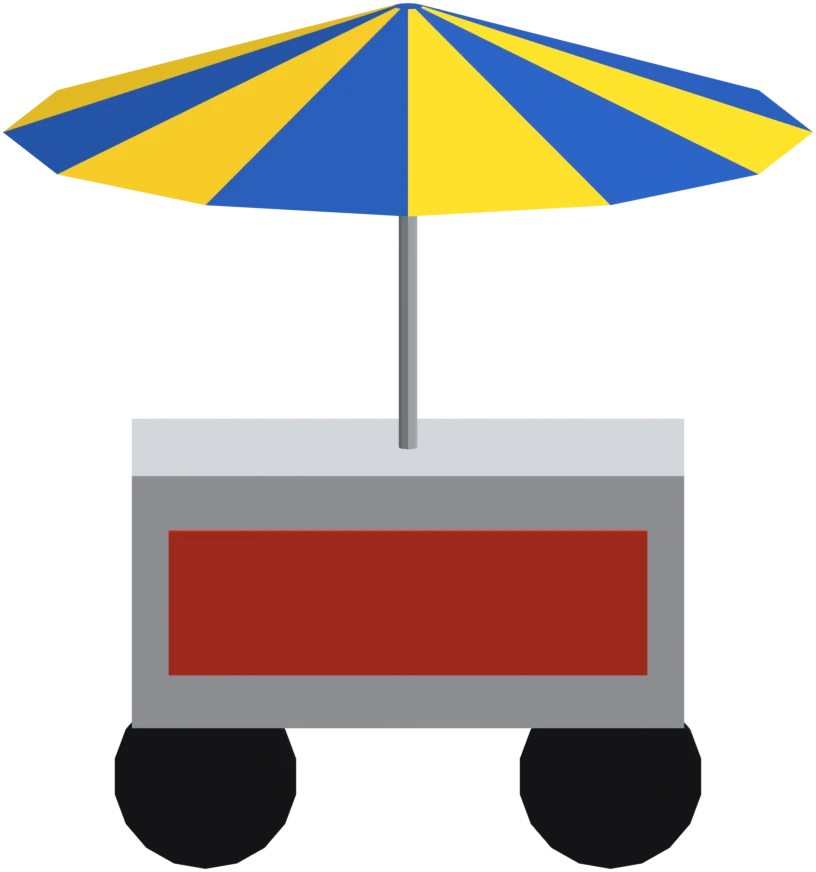
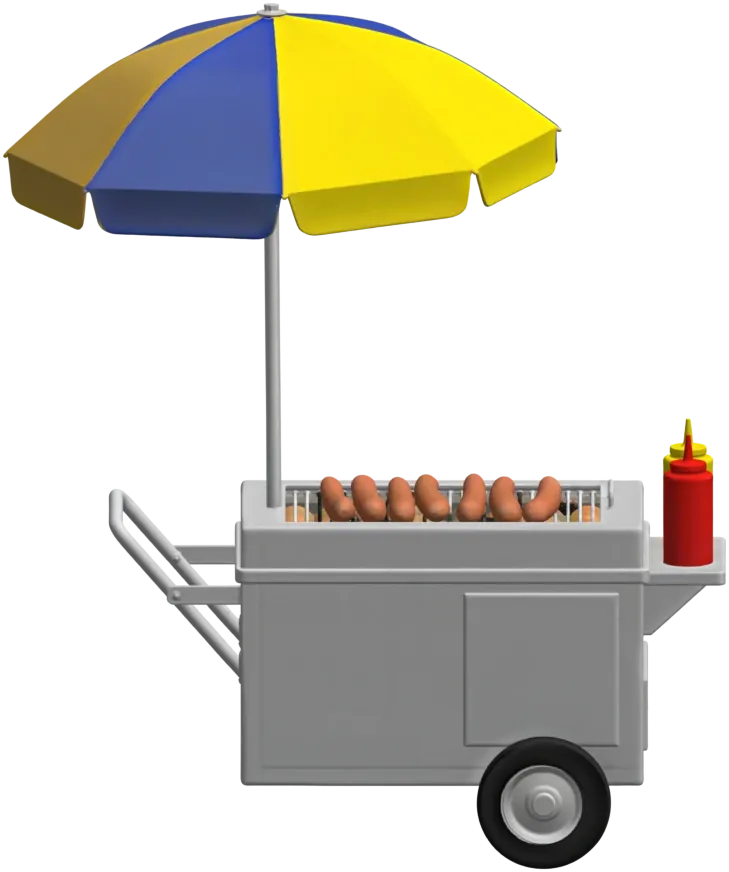
Légende (canal de test) : charrette de simit (İzmir) et chariot de hot-dogs (New York) refaits dans Tripo

diff --git a/tools/blender/decors/legende_pieces.py b/tools/blender/decors/legende_pieces.py
@@ -595,6 +595,8 @@ TRIPO = {
     'drac': dict(source='drac-tripo.glb', rot=0.0, hauteur=1.15),
     'trencadis': dict(source='trencadis-tripo.glb', rot=180.0, hauteur=1.0),
     'kiosque': dict(source='kiosque-tripo.glb', rot=270.0, hauteur=2.9),
+    'simit': dict(source='simit-tripo.glb', rot=90.0, hauteur=1.9),
+    'hotdog': dict(source='hotdog-tripo.glb', rot=90.0, hauteur=2.3),
     'taxi': dict(source='taxi-tripo.glb', rot=0.0, hauteur=1.48, sat=1.9),
     'bus': dict(source='bus-tripo.glb', rot=180.0, hauteur=4.38, sat=1.5),
 }
